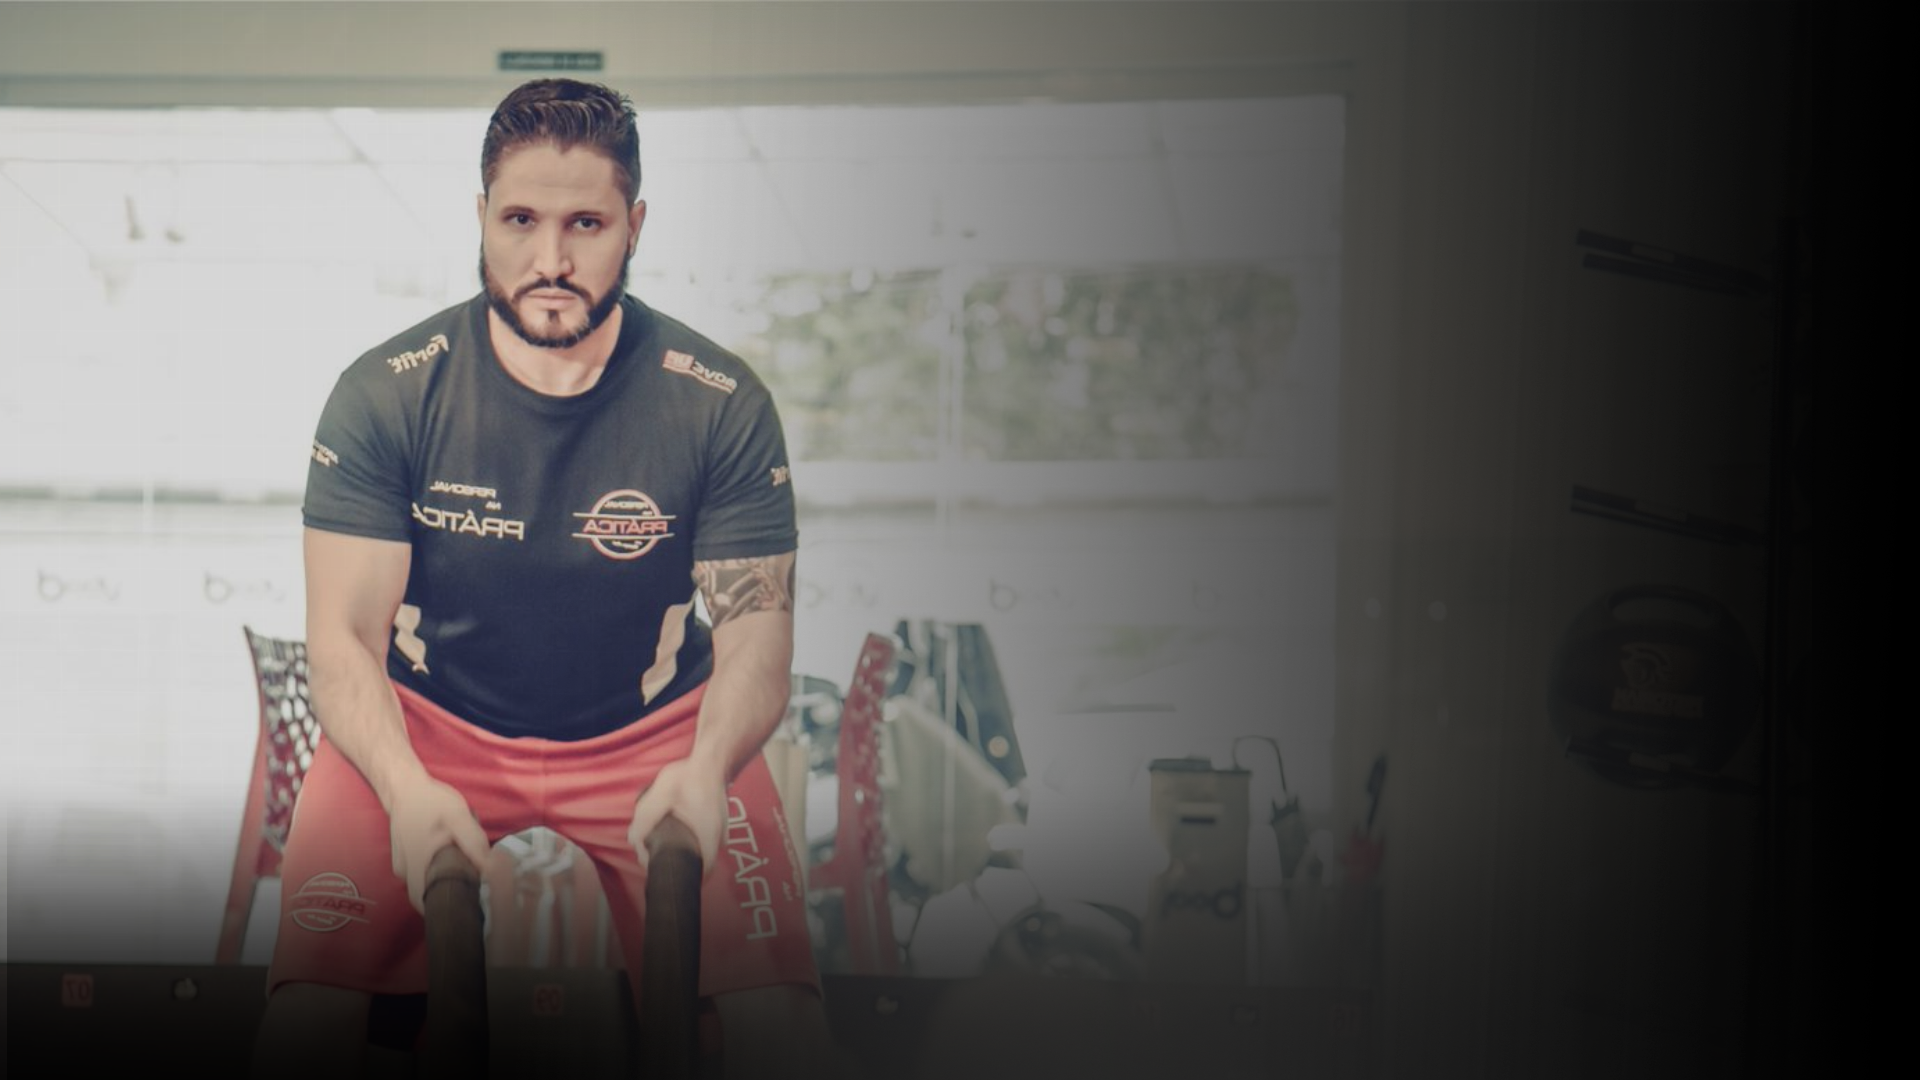
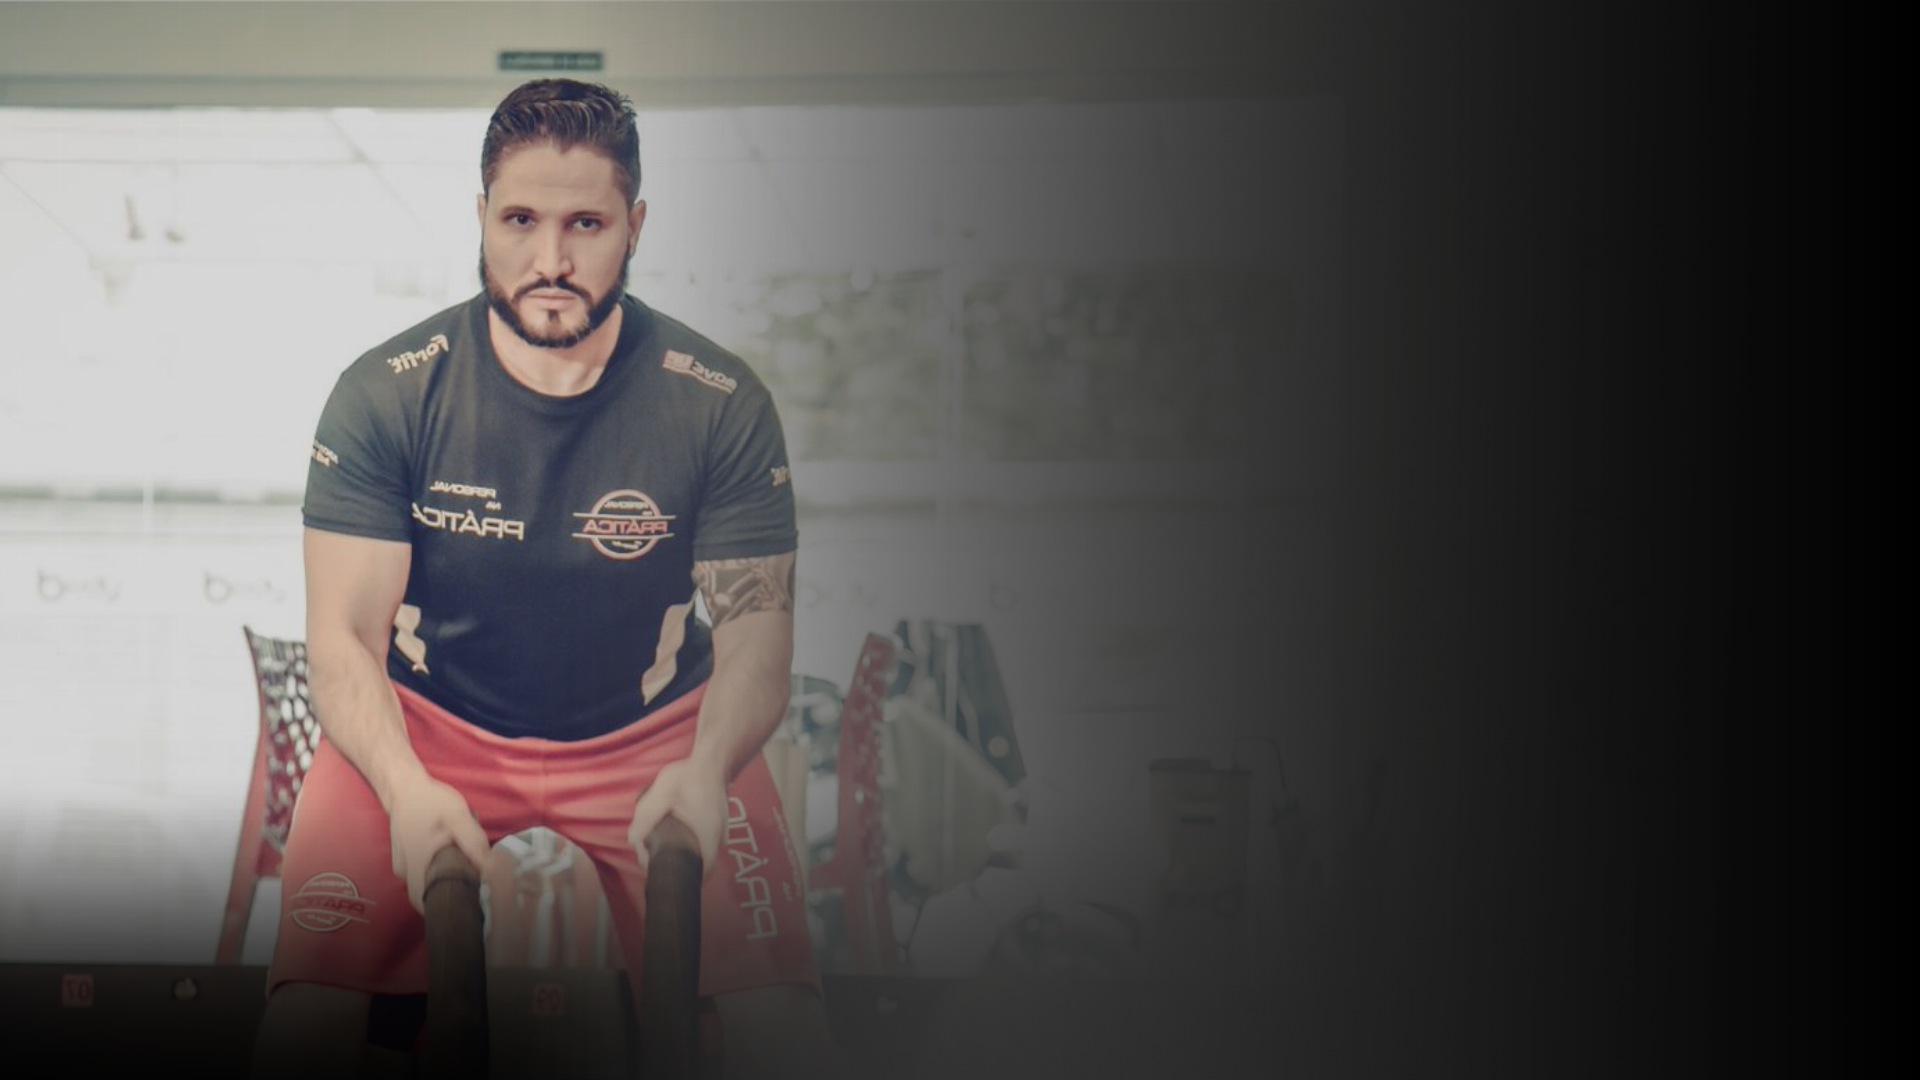
adiciona nova imagem seção quem é o mentor

Changed region(s): [[0.3438, 0.0, 0.7812, 0.825]]

diff --git a/index.html b/index.html
@@ -366,11 +366,8 @@
   <section class="section expert-section" id="expert">
     <div class="container">
       <div class="expert-grid animate-on-scroll">
-        <div class="expert-image">
-          <img src="assets/_Rodrigo Assi - lateralizado de braços estentidos para baixo .png" alt="Rodrigo Assi">
-        </div>
         <div class="expert-info">
-          <span class="section-label">Seu mentor</span>
+          <span>Seu mentor</span>
           <h2>Conheça <span class="text-red">Rodrigo Assi</span></h2>
           <p>
             Criador do método <strong>Personal na Prática</strong> e fundador de uma comunidade profissional de personais.

diff --git a/styles.css b/styles.css
@@ -827,6 +827,29 @@ p {
   align-items: center;
 }
 
+.expert-info {
+  max-width: 560px;
+}
+
+@media (min-width: 1025px) {
+  .expert-section {
+    background-image: url('assets/secao-conheca-o-rodrigo-desktop.png');
+    background-size: cover;
+    background-position: center;
+    background-repeat: no-repeat;
+  }
+
+  .expert-section::before {
+    content: none;
+  }
+
+  .expert-grid {
+    grid-template-columns: 1fr;
+    justify-items: end;
+    min-height: clamp(520px, 55vw, 720px);
+  }
+}
+
 .expert-image {
   position: relative;
 }
